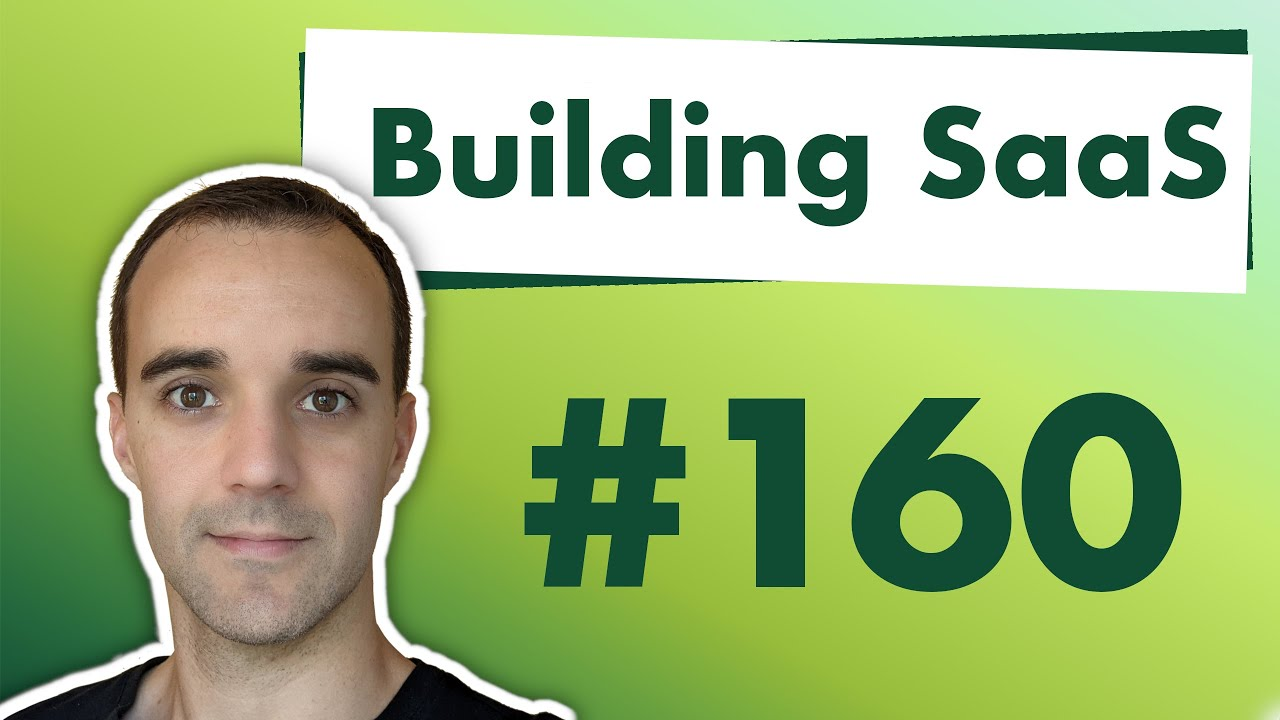
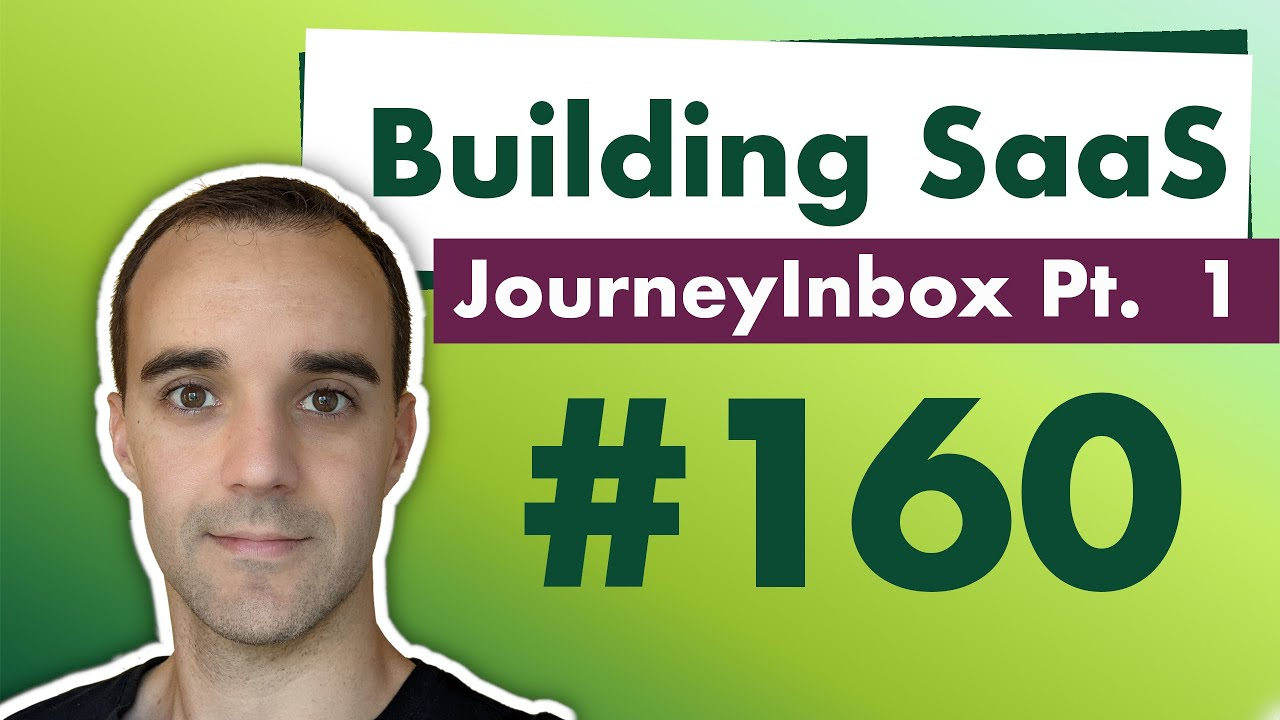
Update Building SaaS #160.

Changed region(s): [[0.3125, 0.3056, 1.0, 0.4889]]

diff --git a/content/blog/2023-05-18-new-saas-from-scratch-building-saas-with-python-and-django-160.md b/content/blog/2023-05-18-new-saas-from-scratch-building-saas-with-python-and-django-160.md
@@ -1,6 +1,6 @@
 ---
 title: "New SaaS From Scratch - Building SaaS with Python and Django #160"
-description: "In this episode, I started a brand new SaaS project from scratch. This new SaaS, a journal service, will allow users to journal via email and be provided with past posts as a engaging prompt."
+description: "In this episode, I started a brand new SaaS project from scratch. This new SaaS, a journal service that will be at journeyinbox.com, will allow users to journal via email and be provided with past posts as a engaging prompt."
 image: img/2023/Ucx8BIetbUE.jpg
 video: https://www.youtube.com/embed/Ucx8BIetbUE
 type: post
@@ -12,4 +12,4 @@ tags: ['Django', 'SaaS', 'Python', 'email', 'journal']
 
 ---
 
-In this episode, I started a brand new SaaS project from scratch. This new SaaS, a journal service, will allow users to journal via email and be provided with past posts as a engaging prompt.
+In this episode, I started a brand new SaaS project from scratch. This new SaaS, a journal service that will be at journeyinbox.com, will allow users to journal via email and be provided with past posts as a engaging prompt.
